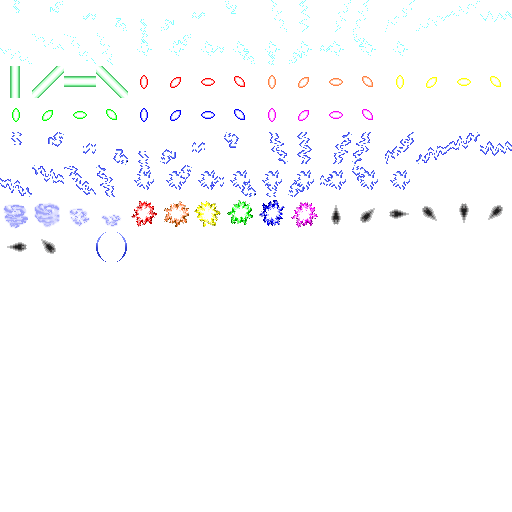
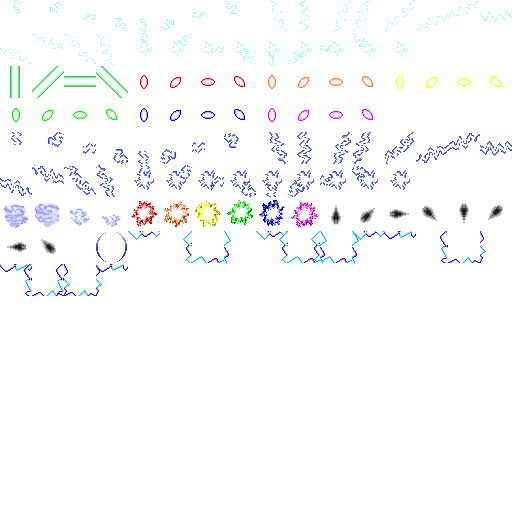
add some texture

diff --git a/th_crawl/texture.cpp b/th_crawl/texture.cpp
@@ -703,12 +703,12 @@ textures img_dungeon01[] = {
 					textures(&texture_dungeon01, 448, 0, 480, 32, 255),//벽2
 					textures(&texture_dungeon01, 480, 0, 512, 32, 255),//벽3
 					textures(&texture_item01, 3, 255), //닫힌문
-					textures(&texture_dungeon01),//유리
-					textures(&texture_dungeon01),//석상
-					textures(&texture_dungeon01, 256, 0, 288, 32, 255),//석상2
 					textures(&texture_dungeon01), //포장마차
 					textures(&texture_dungeon01), //묘비
 					textures(&texture_dungeon02), //눈사람
+					textures(&texture_dungeon01),//유리
+					textures(&texture_dungeon01),//석상
+					textures(&texture_dungeon01, 256, 0, 288, 32, 255),//석상2
 					textures(&texture_dungeon01, 96, 0, 128, 32, 255),//바다
 					textures(&texture_dungeon01, 96, 0, 128, 32, 255)//용암
 };
@@ -733,7 +733,7 @@ textures img_dungeon_object[][3] = {
 				{textures(&texture_item01, 213, 255),textures(&texture_item01, 213, 255),textures(&texture_item01, 213, 255)}, //계단달
 				{textures(&texture_item01, 213, 255),textures(&texture_item01, 213, 255),textures(&texture_item01, 213, 255)}, //계단마계
 				{textures(&texture_item01, 213, 255),textures(&texture_item01, 213, 255),textures(&texture_item01, 213, 255)}, //계단히쿠레이
-				{ textures(&texture_item03, 29, 255), textures(&texture_item03, 29, 255),textures(&texture_item03, 29, 255) }, //계단꿈의포탈
+				{textures(&texture_item03, 29, 255), textures(&texture_item03, 29, 255),textures(&texture_item03, 29, 255) }, //계단꿈의포탈
 				{textures(&texture_item01, 6, 255),textures(&texture_item01, 6, 255),textures(&texture_item01, 6, 255)},//계단
 				{textures(&texture_item03, 25, 255),textures(&texture_item03, 25, 255),textures(&texture_item03, 25, 255)}, //죠온&시온
 
@@ -786,12 +786,12 @@ textures img_dungeon_object[][3] = {
 				{textures(&texture_item01, 2, 255),textures(&texture_item01, 2, 255),textures(&texture_item01, 2, 255)},
 				{textures(&texture_item01, 2, 255),textures(&texture_item01, 2, 255),textures(&texture_item01, 2, 255)},
 				{textures(&texture_item01, 2, 255),textures(&texture_item01, 2, 255),textures(&texture_item01, 2, 255)},
-				{textures(&texture_item01, 168, 255),textures(&texture_item01, 168, 255),textures(&texture_item01, 168, 255)},
-				{textures(&texture_item01, 222, 255),textures(&texture_item01, 222, 255),textures(&texture_item01, 222, 255)},
-				{textures(&texture_item02, 161, 255),textures(&texture_item02, 161, 255),textures(&texture_item02, 161, 255)},
 				{textures(&texture_item03, 195, 255),textures(&texture_item03, 195, 255),textures(&texture_item03, 195, 255)},
 				{textures(&texture_item03, 196, 255),textures(&texture_item03, 196, 255),textures(&texture_item03, 196, 255)},
 				{textures(&texture_item03, 197, 255),textures(&texture_item03, 197, 255),textures(&texture_item03, 197, 255)},
+				{textures(&texture_item01, 168, 255),textures(&texture_item01, 168, 255),textures(&texture_item01, 168, 255)},
+				{textures(&texture_item01, 222, 255),textures(&texture_item01, 222, 255),textures(&texture_item01, 222, 255)},
+				{textures(&texture_item02, 161, 255),textures(&texture_item02, 161, 255),textures(&texture_item02, 161, 255)},
 				{textures(&texture_item01, 2, 255),textures(&texture_item01, 2, 255),textures(&texture_item01, 2, 255)},
 			{textures(&texture_item01, 2, 255),textures(&texture_item01, 2, 255),textures(&texture_item01, 2, 255)}
 };
@@ -2035,6 +2035,26 @@ textures img_thunder[] = {textures(&texture_laser, 64, 255),
 							    textures(&texture_laser, 95, 255)
 
 };
+
+textures img_border[] = {textures(&texture_laser, 116, 255),
+	textures(&texture_laser, 117, 255),
+	textures(&texture_laser, 118, 255),
+	textures(&texture_laser, 119, 255),
+	textures(&texture_laser, 120, 255),
+	textures(&texture_laser, 121, 255),
+	textures(&texture_laser, 122, 255),
+	textures(&texture_laser, 123, 255),
+	textures(&texture_laser, 124, 255),
+	textures(&texture_laser, 125, 255),
+	textures(&texture_laser, 126, 255),
+	textures(&texture_laser, 127, 255),
+	textures(&texture_laser, 128, 255),
+	textures(&texture_laser, 129, 255),
+	textures(&texture_laser, 130, 255),
+	textures(&texture_laser, 131, 255)
+};
+
+
 textures img_laser_small[] = {
 	textures(&texture_laser, 32, 255),
 	textures(&texture_laser, 33, 255),

diff --git a/th_crawl/throw.cpp b/th_crawl/throw.cpp
@@ -337,6 +337,39 @@ textures* GetTanmacGraphic(int type, int direc, int count, int path)
 	}
 }
 
+textures* GetBorderGraphic(coord_def center, coord_def target, int size_x, int size_y, int count)
+{
+    int dx = target.x - center.x;
+    int dy = target.y - center.y;
+
+    bool isWhiteTile = (center.x + center.y + count) % 2 == 0;
+
+	if(!(((abs(dx) - size_x == 0 || abs(dx) - size_x == 1) && size_y >= abs(dy)) ||
+      ((abs(dy) - size_y == 0 || abs(dy) - size_y == 1) && size_x >= abs(dx)))) {
+        return nullptr;
+	}
+	
+	int direction = 0;
+    if (dx > 0 && dy < 0 && abs(dx) == abs(dy)) direction = 4; // ↗
+    else if (dx > 0 && dy > 0 && abs(dx) == abs(dy)) direction = 5;  // ↘
+    else if (dx < 0 && dy > 0 && abs(dx) == abs(dy)) direction = 6; // ↙
+    else if (dx < 0 && dy < 0 && abs(dx) == abs(dy)) direction = 7; // ↖
+    else if (abs(dy) > abs(dx) && (dy == -size_y || dy == 1+size_y)) direction = 0;     // ↑
+    else if (abs(dy) < abs(dx) && (dx == size_x || dx == -1-size_x)) direction = 1; // →
+    else if (abs(dy) > abs(dx) && (dy == size_y || dy == -1-size_y)) direction = 2; // ↓
+    else if (abs(dy) < abs(dx) && (dx == -size_x || dx == 1+size_x)) direction = 3; // ←
+    else
+        return nullptr; 
+
+    int index = isWhiteTile ? direction : direction + 8;
+
+    if (index < 0 || index >= 16) {
+        return nullptr;
+	}		
+
+	return &img_border[index];
+}
+
 textures* GetTanmacBaseGraphic(int type)
 {
 	switch(type)

diff --git a/th_crawl/skill_use.cpp b/th_crawl/skill_use.cpp
@@ -40,6 +40,7 @@
 
 extern HANDLE mutx;
 extern bool widesearch; //X커맨드용
+extern bool sample_dimention;
 extern int map_effect;
 
 bool skill_kanako_might(int pow, bool short_, unit* order, coord_def target)
@@ -1392,6 +1393,7 @@ bool skill_yukari_dimension(int power, bool short_, unit* order, coord_def targe
 		you.search_pos = target;
 		widesearch = true;
 		you.search = true;
+		sample_dimention = true;
 
 	
 		printlog(LocalzationManager::locString(LOC_SYSTEM_GOD_YUKARI_DIMENSION_YN),false,false,false,CL_danger);
@@ -1413,6 +1415,7 @@ bool skill_yukari_dimension(int power, bool short_, unit* order, coord_def targe
 			printlog(LocalzationManager::locString(LOC_SYSTEM_BE_PRUDENT),true,false,false,CL_normal);
 			widesearch = false;
 			you.search = false;
+			sample_dimention = false;
 			endSelection();
 			return false;
 		}
@@ -1420,6 +1423,7 @@ bool skill_yukari_dimension(int power, bool short_, unit* order, coord_def targe
 
 		widesearch = false;
 		you.search = false;
+		sample_dimention = false;
 
 		you.god_value[GT_YUKARI][0] = target.x;
 		you.god_value[GT_YUKARI][1] = target.y;

diff --git a/th_crawl/display.cpp b/th_crawl/display.cpp
@@ -54,7 +54,7 @@ float TimeElapsed = 0;
 float FPS = 0;
 
 extern bool widesearch; //X커맨드용
-
+extern bool sample_dimention;
 
 int map_effect=0;//잠깐 나오는 맵의 반짝 이벤트
 
@@ -2305,6 +2305,29 @@ void display_manager::game_draw(shared_ptr<DirectX::SpriteBatch> pSprite, shared
 				}
 			}
 		}
+	}
+
+	//경계그리기
+	
+	if(you.s_dimension || sample_dimention)
+	{
+		for(int i=0;i<(sight_x*2+1);i++)
+		{
+			for(int j=0;j<(sight_y*2+1);j++)
+			{
+				if(i+x_>=0 && j+y_>=0 && i+x_<DG_MAX_X && j+y_<DG_MAX_Y)
+				{
+					textures* border_ =  GetBorderGraphic(you.s_dimension?coord_def(you.god_value[GT_YUKARI][0],you.god_value[GT_YUKARI][1]):you.search_pos, coord_def(i+x_,j+y_), 7, 7, you.turn);
+					if(border_) {
+						int x = i*calc_tile_size + tile_x_offset;
+						int y = j*calc_tile_size + tile_x_offset;
+						border_->draw(pSprite, x, y,0.0f,calc_tile_scale,calc_tile_scale, D3DCOLOR_ARGB(you.s_dimension?255:128, 255, 255, 255));
+					}
+				}
+			}
+		}
+
+
 	}
 
 	if(you.search)

diff --git a/th_crawl/action.cpp b/th_crawl/action.cpp
@@ -57,6 +57,7 @@ bool stack_move(bool auto_);
 
 extern display_manager DisplayManager;
 bool widesearch = false;
+bool sample_dimention = false;
 
 int action_Move(int command, const coord_def &c)
 {
@@ -1950,16 +1951,16 @@ void Stair_move(bool down)
 					break;
 				case DG_SCARLET_STAIR:
 					next_ = SCARLET_LEVEL;
-					break;					
+					break;
 				case DG_SCARLET_L_STAIR:
 					next_ = SCARLET_LIBRARY_LEVEL;
 					break;			
 				case DG_SCARLET_U_STAIR:
 					next_ = SCARLET_UNDER_LEVEL;
 					break;			
-				case DG_BAMBOO_STAIR:					
+				case DG_BAMBOO_STAIR:
 					next_ = BAMBOO_LEVEL;
-					break;			
+					break;
 				case DG_EIENTEI_STAIR:					
 					next_ = EIENTEI_LEVEL;
 					break;			

diff --git a/th_crawl/const.cpp b/th_crawl/const.cpp
@@ -147,12 +147,12 @@ LOCALIZATION_ENUM_KEY dungeon_tile_tribe_type_string[]=
 	LOC_SYSTEM_TILE_WALL,
 	LOC_SYSTEM_TILE_WALL,
 	LOC_SYSTEM_TILE_CLOSE_DOOR,
-	LOC_SYSTEM_TILE_GRASS,
-	LOC_SYSTEM_TILE_STATUE,
-	LOC_SYSTEM_TILE_BUDDHA_STATUE,
 	LOC_SYSTEM_TILE_IZAKAYA,
 	LOC_SYSTEM_TILE_GRAVE,
 	LOC_SYSTEM_TILE_SNOWMAN,
+	LOC_SYSTEM_TILE_GRASS,
+	LOC_SYSTEM_TILE_STATUE,
+	LOC_SYSTEM_TILE_BUDDHA_STATUE,
 	LOC_SYSTEM_TILE_DEEP_WATER,
 	LOC_SYSTEM_TILE_LAVA
 };

diff --git a/th_crawl/throw.h b/th_crawl/throw.h
@@ -29,6 +29,7 @@ int Search_Move(const coord_def &c, bool wide, view_type type_ = VT_NORMAL, int 
 
 int GetTanmacGraphicType(tanmac_type type);
 textures* GetTanmacBaseGraphic(int type);
+textures* GetBorderGraphic(coord_def center, coord_def target, int size_x, int size_y, int count);
 LOCALIZATION_ENUM_KEY GetTanmacKey(int type);
 attack_type GetTanmacAttackType(tanmac_type type);
 attack_type GetWeapontoTanmac(weapon_brand brand);

diff --git a/th_crawl/enum.h b/th_crawl/enum.h
@@ -312,12 +312,12 @@ enum dungeon_tile_type //요거 추가했을때 시야에 걸리도록하려면 
 	DG_WALL2,
 	DG_WALL3,
 	DG_CLOSE_DOOR,
-	DG_GLASS,
-	DG_STATUE,
-	DG_STATUE2,
 	DG_IZAKAYA,
 	DG_GRAVE,
 	DG_SNOWMAN,
+	DG_GLASS,
+	DG_STATUE,
+	DG_STATUE2,
 	DG_SEA, //여기부터 바다
 	DG_LAVA,
 	DG_OBJECT_END = DG_LAVA,

diff --git a/th_crawl/texture.h b/th_crawl/texture.h
@@ -81,7 +81,7 @@ extern textures img_monster01[];
 extern textures img_item01[];
 extern textures img_laser[];
 extern textures img_thunder[];
-
+extern textures img_border[];
 
 
 
